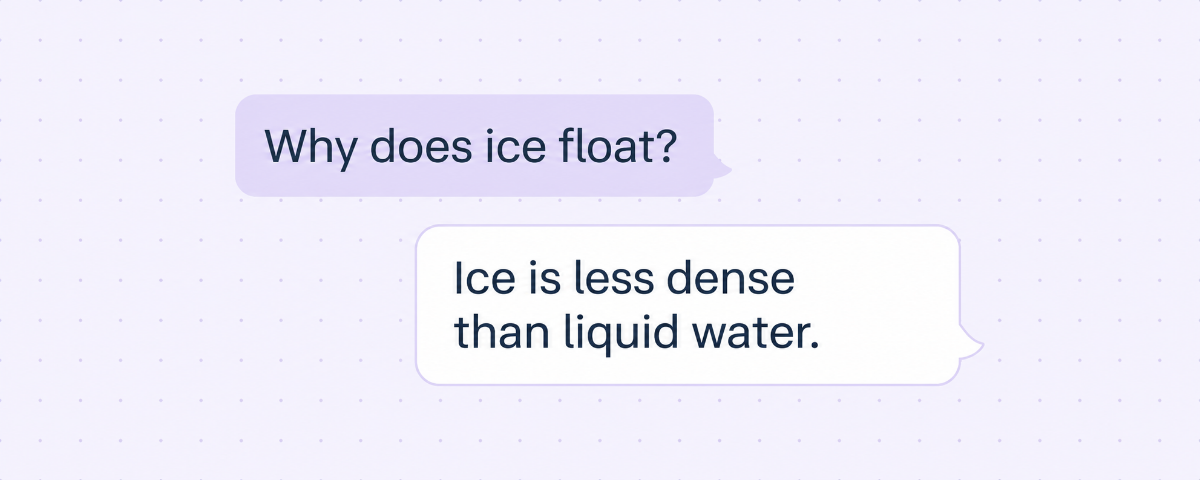
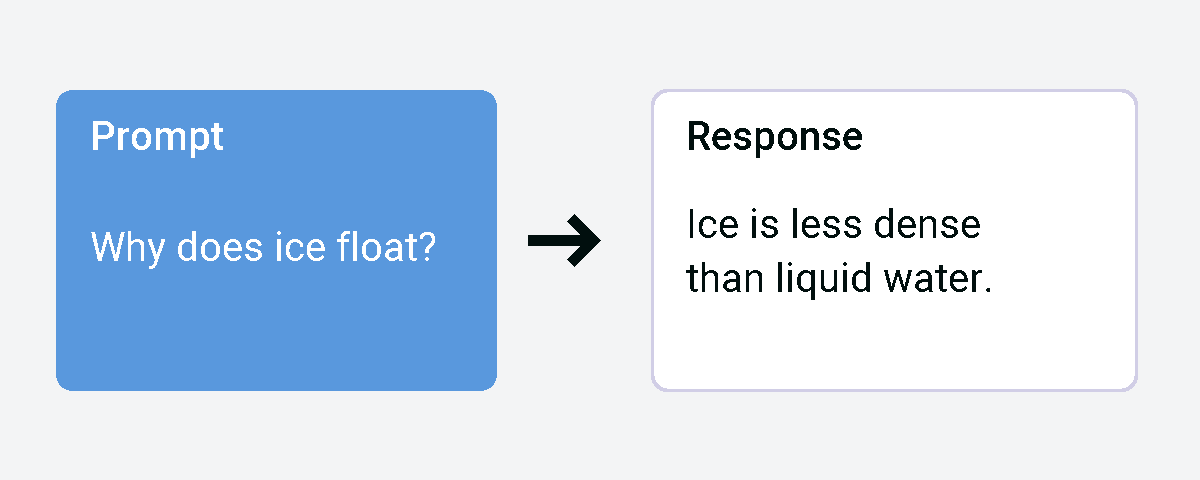
Unify model hero illustrations and document the design guidelines (#444)
* docs(models): unify hero illustrations and design guidelines

* docs: add illustration guide to developer sidebar

* fix(artwork): remove stray pixels from hero images

diff --git a/website/sidebars.ts b/website/sidebars.ts
@@ -31,6 +31,7 @@ const sidebars: SidebarsConfig = {
         {type: 'doc', id: 'model-browser', label: 'Model browser'},
         'runner-class-requests',
         'model-taxonomy',
+        'illustration-guide',
       ],
     },
   ],

diff --git a/docs/illustration-guide.md b/docs/illustration-guide.md
@@ -1,0 +1,222 @@
+# Geometric comic illustrations
+
+Use this guide for model heroes, explainers, diagrams and comic sequences.
+Choose the detail level by the object's size and the information being shown.
+
+## Choose the style
+
+| Style | Use for | Detail | References |
+| --- | --- | --- | --- |
+| Simplified icons | Informational graphics, scenes with several objects, diagrams and sequences | Flat silhouettes with the fewest shapes needed for recognition and essential features only | [RF-DETR Nano](../models/rf_detr_nano/hero.png) |
+| Detailed illustrations | Large focal subjects, single-object heroes, close-ups and explanations of features or defects | More facets and selected facial, structural or diagnostic features; quieter unrelated areas | [ResNet-50](../models/resnet_50/hero.png) |
+
+A hero containing several small objects still uses the simplified style.
+Add detail when the subject has enough space and it helps explain something:
+a vehicle in a scene needs a simple silhouette; a close-up explaining a wheel
+or a defect needs the relevant parts.
+
+## Establish the structure
+
+- Default to a front or flat side view. Use shallow perspective only when needed
+  to explain depth or a functional part. Keep connected parts aligned, correctly
+  proportioned and consistent in perspective; preserve symmetry where the
+  object requires it.
+- Define the silhouette and key functional parts first. A laptop needs a
+  rectangular screen and a centered base; a cup needs a visible handle. Objects
+  must be identifiable without reading their labels.
+- Use the fewest shapes needed for recognition. Represent keyboards, grilles
+  and similar repeated details as one solid area in simplified icons. Add a
+  detail only when it improves recognition at thumbnail size.
+- Check the silhouette and functional geometry without labels at a thumbnail
+  size such as 300×120 before adding color facets.
+- Apply color facets within the established structure. Preserve the outer
+  contour, proportions, symmetry and functional openings. Keep rectangular
+  screens rectangular and a laptop's screen and base on a shared centerline.
+
+## Shared rules
+
+- Build broad facets from horizontal, vertical and repeated 45-degree diagonals,
+  inspired by the supplied SiMa.ai references. Allow circles, arcs and small
+  curves where anatomy or mechanical function needs them.
+- Use expressive eyes and a contrasting mouth where faces matter.
+- Use a muted natural skin tone for each person's face, ears, neck, hands and
+  other exposed skin. Keep that tone consistent across the person, with one
+  solid fill and black facial features. Put corporate accents in clothing and
+  accessories. Do not use white, teal or other brand accents as skin.
+- Use crisp, continuous boundaries and solid color regions. Remove speckles,
+  grain, stray pixels and edge halos, including artifacts introduced by palette
+  remapping. Simplification should preserve a deliberate, finished shape.
+- Pair blue/lavender/black, orange/teal/black or green/teal/lime within connected
+  planes. Use a few colors per object rather than every accent everywhere.
+- Use neutral backgrounds, generous spacing and restrained scenery. No logos,
+  wordmarks, photographic textures, lighting effects, gradients, glows or shadows.
+  Base illustrations are opaque; segmentation masks are the exception below.
+
+## Colors
+
+Use these ten brand colors for objects, clothing, backgrounds and annotations.
+Exposed human skin has the narrow exception below; do not add other colors,
+shades or tints.
+Background/text combinations follow the supplied brand table; prefer black on
+a neutral background for small copy. These are brand pairings, not a blanket
+accessibility claim.
+
+| Background | Hex | Permitted text colors |
+| --- | --- | --- |
+| Gray | `#F3F4F5` | Black, orange, blue, green |
+| Gray | `#E8E9EB` | Black, orange, blue, green |
+| White | `#FFFFFF` | Black, orange, blue, green |
+| Black | `#010F0E` | White, `#F3F4F5`, lavender, teal, lime |
+| Orange | `#D26728` | White |
+| Lavender | `#D1CEE6` | Black |
+| Blue | `#5998DD` | White |
+| Teal | `#C0E8DB` | Black |
+| Green | `#2A9C4F` | White |
+| Lime | `#A4CC2D` | Black |
+
+Use [palette.svg](assets/illustration-guide/palette.svg) for export.
+The following three skin tones are an intentional exception limited to exposed
+human skin. The brand palette remains the ten colors above; scenes without
+people use that ten-color palette.
+For this exception, choose one of `#E4B493` (light), `#BC8768`
+(medium) or `#8C624D` (deep). Use varied tones across groups of people, keeping
+each person's face and hands consistent. Use flat fills without blush,
+highlights or extra skin facets. Keep these colors out of clothing, objects,
+backgrounds, annotations and text.
+The [palette with skin tones](assets/illustration-guide/palette-with-skin.svg)
+includes this exception for scenes containing people.
+
+Translucent segmentation masks may blend a palette color with the artwork
+beneath, only within the mask region and its edge.
+A filled person mask may tint the natural skin tone with its class color,
+just as it tints the person's clothing.
+
+## Typography
+
+Use Roboto for every title, label and caption. Typeset lettering after generating the
+illustration; do not accept AI-generated lettering or a fallback font.
+
+Use Light 300 for large editorial headings, Regular 400 for body copy, Medium
+500 for labels and Bold 700 for emphasis. At 1200×480, use 40 px Medium labels
+with consistent padding; a classification result can use 40 px Bold with
+32 px Regular alternatives. Do not condense or stretch the font.
+
+Install [Roboto from Google Fonts](https://fonts.google.com/specimen/Roboto)
+if it is not available in your design tool.
+
+## Prediction overlays
+
+- Give each different class in an image a different corporate color. Repeated
+  instances keep that color across the image or sequence.
+- Choose annotation colors that contrast with the object's main illustration
+  colors, and plan this before coloring the scene. Different class colors alone
+  are insufficient if they blend into their objects. For example, use orange
+  for a green plant and green for a blue/black laptop. Use the same class color
+  for its mask, outline, box and label background; follow the text pairings above.
+- Detection boxes fit tightly around objects. Segmentation also needs a visible
+  filled mask following the silhouette, leaving the background and gaps between
+  object parts unmasked.
+- Draw boxes and labels after all base-art cleanup. Keep all four box edges
+  visible, including the bottom border where an object meets the floor.
+- Start with 35% mask opacity, adjustable within 25–40%. Keep outlines, boxes
+  and labels opaque; a 3 px outline is a useful starting point at 1200×480.
+- Use direct labels so color is not the only source of meaning. Examples must
+  not imply measured accuracy or invent confidence scores.
+
+For other explainers, use one message per graphic and one action per panel.
+Keep a consistent reading direction and clear connectors. In comparisons,
+hold the object's scale and viewpoint constant and change the relevant attribute.
+
+## Reference heroes
+
+Use the finished `models/<id>/hero.png` files as visual references.
+
+| Example | Hero | Preserve |
+| --- | --- | --- |
+| Detailed focal subject | [ResNet-50](../models/resnet_50/hero.png) | Seated cat silhouette, curled tail, expressive eyes and visible mouth |
+| Simplified objects | [RF-DETR Nano](../models/rf_detr_nano/hero.png) | Front-on rectangular laptop screen, short centered trapezoid base and one solid keyboard area |
+| Detection | [RF-DETR Small](../models/rf_detr_small/hero.png) | Simple scene, tight boxes and distinct class colors |
+| Segmentation | [YOLO26m Seg](../models/yolo26m_seg/hero.png) | Filled class masks, visible contours and unmasked gaps |
+| Pose | [YOLO26n Pose](../models/yolo26n_pose/hero.png) | Readable simplified people and clearly visible skeleton overlays |
+| Input/output explanation | [Whisper Small](../models/whisper_small/hero.png) | Clear reading direction and explicit input and output |
+
+**Simplified construction — front-on laptop**
+
+![Front-on geometric laptop with a rectangular screen, centered trapezoid base and solid keyboard area beside a cup and plant](../models/rf_detr_nano/hero.png)
+
+**Classification — detailed focal subject**
+
+![Geometric cat beside ranked classification labels](../models/resnet_50/hero.png)
+
+## Reusable prompt
+
+Attach a reference hero and choose one style instruction:
+
+- **Simplified:** a clear flat silhouette with the fewest shapes needed for
+  recognition; group repeated details such as a keyboard into one solid area.
+  Omit individual fingers, fine mechanics and fabric folds.
+- **Detailed:** a large focal subject with more geometric facets and selected
+  facial, structural or diagnostic features; emphasize the relevant part and
+  leave unrelated areas quieter.
+
+Insert that instruction into this shared template:
+
+```text
+Create [SUBJECT] for [PURPOSE] in the approved geometric comic style.
+[STYLE INSTRUCTION]
+Use [FRONT OR SIDE VIEW; SHALLOW PERSPECTIVE ONLY IF NEEDED].
+Construct [KEY PARTS AND THEIR ALIGNMENT] with recognizable proportions,
+consistent perspective and symmetry where appropriate.
+Make the silhouette and functional parts readable without labels at 300×120.
+Apply broad color facets within that structure, preserving its outline,
+proportions and functional openings. Use horizontal/vertical edges and
+repeated 45-degree diagonals for the facets. Allow circles and small curves
+where recognition needs them.
+Use crisp boundaries and flat fills, without grain, speckles or halos.
+Use #F3F4F5 #E8E9EB #FFFFFF #010F0E #D26728 #D1CEE6
+#5998DD #C0E8DB #2A9C4F #A4CC2D for clothing, objects, backgrounds,
+annotations and text, with a few colors per subject.
+Background #F3F4F5, clear margins, complete subject within frame.
+No logos, lettering, realistic materials, arbitrary microfacets, gradients,
+glows, transparency or shadows in the base illustration.
+Keep [ESSENTIAL FEATURES]. Omit [UNNECESSARY DETAILS].
+The intentional palette exception is exposed human skin: use one muted natural
+skin tone per person, #E4B493, #BC8768 or #8C624D, only on exposed skin.
+Keep each person's face and hands the same
+tone, with black hair and facial features and corporate colors for clothing.
+Prediction overlays and actual Roboto lettering will be composed separately.
+```
+
+## Export and review
+
+Preserve the model's subjects, output semantics and architecture accent in
+the base artwork. Follow the class-color rule for prediction overlays.
+
+Export model heroes as regular, metadata-stripped 1200×480 PNGs under 2 MiB at
+`models/<id>/hero.png`. Documentation and hero changes must not change compilation
+or benchmark fingerprints.
+
+Normalize opaque artwork and lettering to the palette after the final resize,
+without dithering. From the repository root:
+
+```sh
+convert docs/assets/illustration-guide/palette.svg -alpha off /tmp/hero-palette.png
+convert /path/to/composed-hero.png -alpha off \
+  +dither -remap /tmp/hero-palette.png -strip PNG8:/path/to/hero.png
+```
+
+For scenes containing people, use `palette-with-skin.svg` in that command.
+Check that the three additional colors occur only on exposed human skin.
+
+For segmentation, normalize the base first, then composite the translucent masks
+and export a metadata-stripped RGB PNG. Do not remap the blended masks afterward.
+
+Review the final PNG at 1200×480 and at a thumbnail size such as 300×120.
+Temporarily hide labels to check object recognition, then check annotation
+contrast and label readability. Check that the chosen view, proportions,
+symmetry and alignment remain consistent after adding facets. Inspect edges at
+native resolution after palette remapping and clean up any noise or broken
+contours. Passing a palette check does not establish visual quality. Also check
+geometry, facial contrast, mechanical plausibility and mask alignment. Verify
+Roboto loaded and pixels outside masks and their edges use only the approved
+colors. Run the existing hero validator.

diff --git a/AGENTS.md b/AGENTS.md
@@ -382,6 +382,11 @@ Each hero shows the model's output on an input, such as labeled boxes on a
 scene, in a scene no other model uses. Models of one architecture share a
 style and accent color, and labels use the same size on every hero.
 
+For new or refreshed artwork, follow the [illustration guide](docs/illustration-guide.md),
+the single source for the two geometric comic styles, exact palette, Roboto
+typography, prediction overlays and reusable prompts. Use existing model heroes
+as visual references.
+
 When a change alters what the model detects, its input, its outputs, or its
 components, update the README and the hero in the same change. A README- or
 hero-only edit is documentation or catalog metadata; it must not change

diff --git a/docs/adding-a-model.md b/docs/adding-a-model.md
@@ -472,6 +472,9 @@ word limits, the Building applications text, and the internal terms a README
 leaves out. The writing rules are in
 [`AGENTS.md`](https://github.com/sima-neat/models/blob/develop/AGENTS.md#model-readme-requirements).
 
+Create the hero using the [geometric comic illustration guide](illustration-guide.md),
+which includes the fixed palette, Roboto typography, reference heroes and reusable prompts.
+
 ## 12. Validate the contract
 
 ```bash
